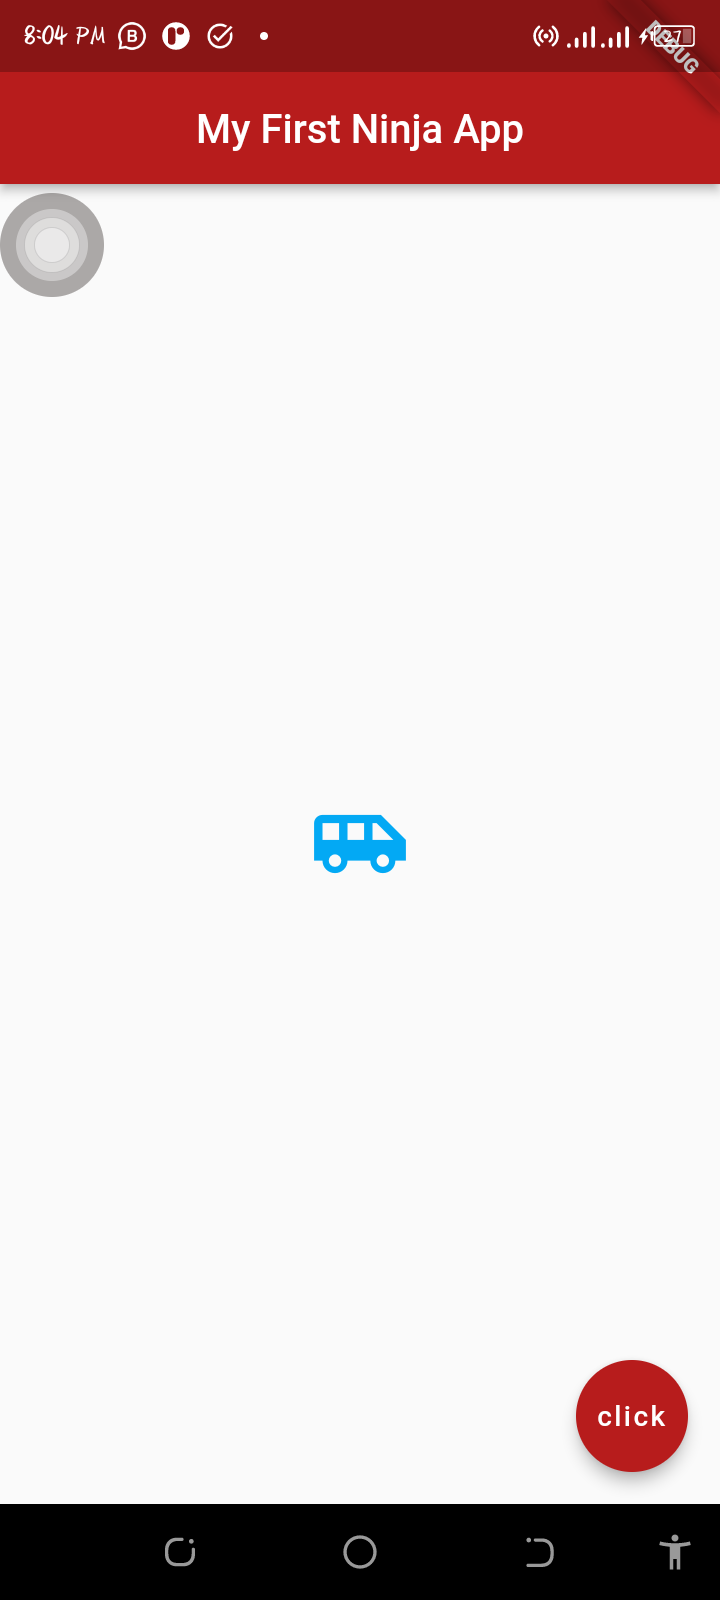
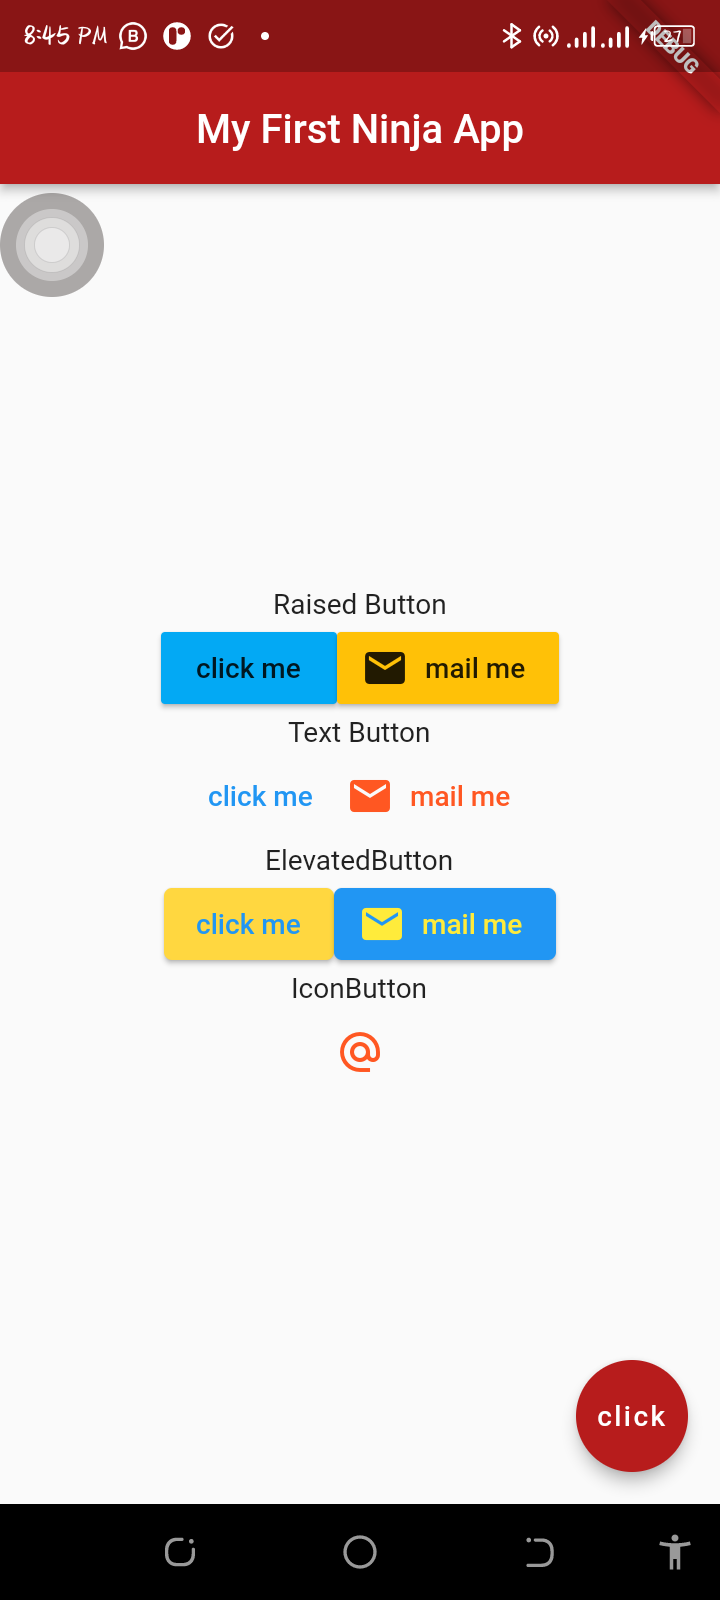
container

diff --git a/My app/myapp/lib/main.dart b/My app/myapp/lib/main.dart
@@ -15,15 +15,14 @@ class Home extends StatelessWidget {
         centerTitle: true,
         backgroundColor: Colors.red[900],
       ),
-      body: const Center(
-        child: Icon(
-          Icons.airport_shuttle,
-          color: Colors.lightBlue,
-          size: 50.0,
-        ),
+      body: Container(
+        padding: const EdgeInsets.all(20.0),
+        margin: const EdgeInsets.all(30.0),
+        color: Colors.red[100],
+        child: const Text('hello'),
       ),
       floatingActionButton: FloatingActionButton(
-        onPressed: () => {},
+        onPressed: () {},
         backgroundColor: Colors.red[900],
         child: const Text('click'),
       ),
